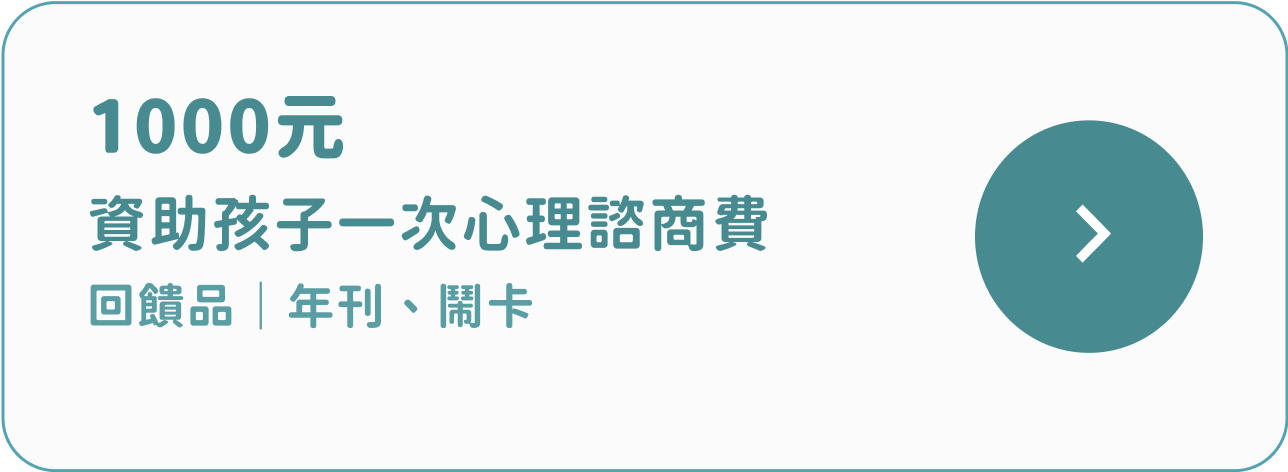
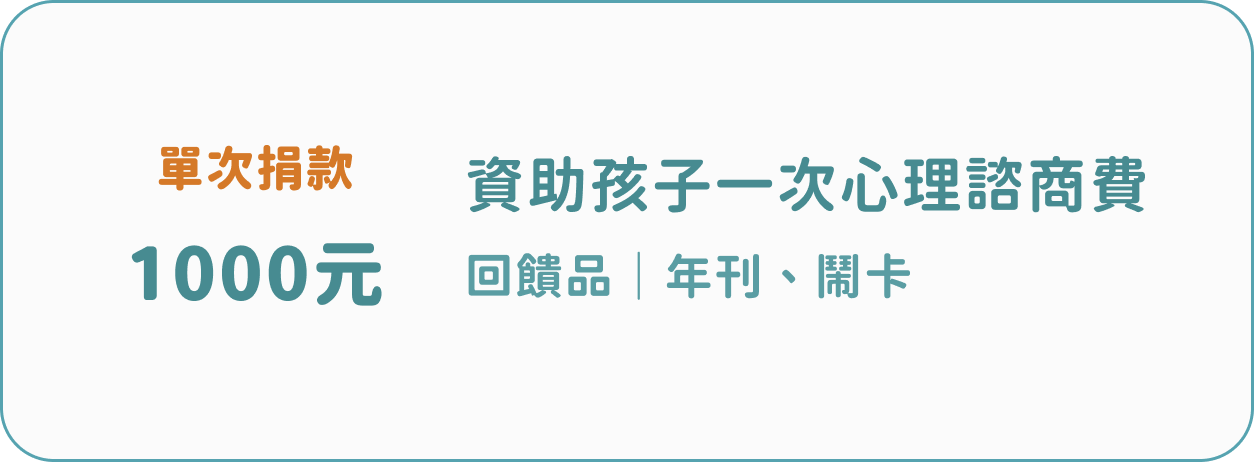
feat: donate button and action change to single donate button

diff --git a/src/components/E.vue b/src/components/E.vue
@@ -34,14 +34,14 @@
                   <!-- 1000元單次捐款卡片 -->
                   <div :class="[$style.offerParameters, $style.clickableCard]" @click="handleDonation(1000, 'A')">
                     <picture>
-                      <source srcset="/donateBtn/1000-m.png" media="(max-width: 1000px)" />
+                      <source srcset="/donateBtn/1000.png" media="(max-width: 1000px)" />
                       <img alt="1000元捐款" src="/donateBtn/1000.png" style="width:100%;height:auto;display:block;" />
                     </picture>
                   </div>
                   <!-- 3000元單次捐款卡片 -->
                   <div :class="[$style.offerParameters, $style.clickableCard]" @click="handleDonation(3000, 'A')">
                     <picture>
-                      <source srcset="/donateBtn/3000-m.png" media="(max-width: 1000px)" />
+                      <source srcset="/donateBtn/3000.png" media="(max-width: 1000px)" />
                       <img alt="3000元捐款" src="/donateBtn/3000.png" style="width:100%;height:auto;display:block;" />
                     </picture>
                   </div>
@@ -58,14 +58,14 @@
                   <!-- 600元定期捐款卡片 -->
                   <div :class="[$style.offerParameters, $style.clickableCard]" @click="handleDonation(600, 'B')">
                     <picture>
-                      <source srcset="/donateBtn/600-m.png" media="(max-width: 1000px)" />
+                      <source srcset="/donateBtn/600.png" media="(max-width: 1000px)" />
                       <img alt="600元定期捐款" src="/donateBtn/600.png" style="width:100%;height:auto;display:block;" />
                     </picture>
                   </div>
                   <!-- 1500元定期捐款卡片 -->
                   <div :class="[$style.offerParameters, $style.clickableCard]" @click="handleDonation(1500, 'B')">
                     <picture>
-                      <source srcset="/donateBtn/1500-m.png" media="(max-width: 1000px)" />
+                      <source srcset="/donateBtn/1500.png" media="(max-width: 1000px)" />
                       <img alt="1500元定期捐款" src="/donateBtn/1500.png" style="width:100%;height:auto;display:block;" />
                     </picture>
                   </div>
@@ -75,13 +75,15 @@
               <section :class="$style.blockRowWrapper">
                 <div :class="$style.blockRow">
                   <div :class="$style.internalOfferWrapper">
-                    <div :class="$style.freeDonateCard" @click="handleCustomDonation">
-                      <picture>
-                        <source srcset="/donateBtn/free-m.png" media="(max-width: 1000px)" />
-                        <img :class="$style.freeDonateImage" alt="自由捐款" src="/donateBtn/free.png" />
-                      </picture>
-                      <input v-model="customAmount" :class="$style.freeInput" type="number" placeholder="0" :min="100"
-                        @keyup.enter="handleCustomDonation" @click.stop @input="errorMessage = ''" />
+                    <div :class="$style.freeDonateCard">
+                      <a :class="$style.donateCta" href="https://lihi.cc/Iz8Pc" target="_blank"
+                        rel="noopener noreferrer">
+                        <span :class="$style.donateCtaText">立即捐款</span>
+                        <span :class="$style.donateCtaIconWrap">
+                          <img :class="$style.iconDefault" src="/donateBtn/btn-icon.png" alt="donate icon" />
+                          <img :class="$style.iconHover" src="/donateBtn/btn-icon-hover.png" alt="donate icon hover" />
+                        </span>
+                      </a>
                     </div>
                   </div>
                 </div>
@@ -167,6 +169,9 @@ const errorMessage = ref('')
 
 // 處理固定金額捐款
 const handleDonation = async (amount, kind) => {
+  return;
+  // 先關閉捐款功能
+
   if (isLoading.value) return
 
   try {
@@ -696,6 +701,87 @@ const handleCustomDonation = async () => {
   max-width: 535px;
 }
 
+/* CTA button for free donate */
+.donateCta {
+  width: 389px;
+  height: 132px;
+  display: flex;
+  align-items: center;
+  justify-content: center;
+  gap: 16px;
+  background-color: #E47F44;
+  color: #ffffff;
+  border: 1px solid #ffffff;
+  border-radius: 70px;
+  text-decoration: none;
+  font-size: 32px;
+  font-weight: 700;
+  font-family: var(--font-gensenrounded2-tw);
+  box-shadow: 0 8px 16px rgba(228, 127, 68, 0.35), 0 2px 4px rgba(0, 0, 0, 0.06);
+  transition: all 0.2s ease;
+  padding: 0 28px;
+}
+
+.donateCta:hover {
+  background-color: #ffffff;
+  color: #E47F44;
+  border-color: #E47F44;
+  box-shadow: 0 12px 22px rgba(228, 127, 68, 0.45), 0 3px 6px rgba(0, 0, 0, 0.08);
+}
+
+.donateCta:active {
+  transform: translateY(1px);
+  box-shadow: 0 4px 8px rgba(228, 127, 68, 0.30), 0 2px 4px rgba(0, 0, 0, 0.06) inset;
+}
+
+.donateCtaText {
+  line-height: 1;
+}
+
+.donateCtaIconWrap {
+  position: relative;
+  width: 76px;
+  height: 76px;
+  display: inline-block;
+  filter: drop-shadow(0 2px 4px rgba(0, 0, 0, 0.25));
+  transition: filter 0.2s ease;
+}
+
+.donateCta:hover .donateCtaIconWrap {
+  filter: drop-shadow(0 4px 8px rgba(0, 0, 0, 0.28));
+}
+
+.donateCta:active .donateCtaIconWrap {
+  filter: drop-shadow(0 1px 2px rgba(0, 0, 0, 0.22));
+}
+
+.donateCtaIconWrap img {
+  position: absolute;
+  top: 0;
+  left: 0;
+  width: 100%;
+  height: 100%;
+  object-fit: contain;
+  transition: opacity 0.15s ease;
+}
+
+/* Default icon visible; swap on hover */
+.iconDefault {
+  opacity: 1;
+}
+
+.iconHover {
+  opacity: 0;
+}
+
+.donateCta:hover .iconDefault {
+  opacity: 0;
+}
+
+.donateCta:hover .iconHover {
+  opacity: 1;
+}
+
 .freeDonateImage {
   width: 100%;
   height: auto;
@@ -729,6 +815,8 @@ const handleCustomDonation = async () => {
   font-size: var(--font-size-24);
   color: var(--color-cadetblue-300);
   font-family: var(--font-gensenrounded2-tw);
+
+  display: none;
 }
 
 @media screen and (max-width: 768px) {
@@ -1046,15 +1134,15 @@ const handleCustomDonation = async () => {
 
 /* 新增樣式 */
 .clickableCard img {
-  cursor: pointer;
+  /* cursor: pointer; */
   transition: all 0.3s ease;
   /* box-shadow: 0px 4px 4px rgba(0, 0, 0, 0.3); */
   /* border: 1px solid #56A3B0; */
-  border-radius: 16px;
+  /* border-radius: 18px; */
   transform-origin: center center;
 }
 
-.clickableCard:hover img {
+/* .clickableCard:hover img {
   transform: translateY(-2px);
   box-shadow: 0px 6px 8px rgba(0, 0, 0, 0.3);
   border-radius: 16px;
@@ -1062,7 +1150,7 @@ const handleCustomDonation = async () => {
 
 .clickableCard:active img {
   transform: translateY(0);
-}
+} */
 
 .customAmountInput {
   width: 120px;
@@ -1227,13 +1315,13 @@ const handleCustomDonation = async () => {
 }
 
 @media screen and (max-width: 1000px) {
-  .clickableCard img {
+  /* .clickableCard img {
     border-radius: 45px;
   }
 
   .clickableCard:hover img {
     border-radius: 45px;
-  }
+  } */
 
   .freeDonateImage {
     border-radius: 11px;
@@ -1245,6 +1333,19 @@ const handleCustomDonation = async () => {
 }
 
 @media screen and (max-width: 768px) {
+  .donateCta {
+    width: 193px;
+    height: 60px;
+    font-size: 20px;
+    gap: 10px;
+    padding: 0 16px;
+  }
+
+  .donateCtaIconWrap {
+    width: 28px;
+    height: 28px;
+  }
+
   .frameParent {
     padding: 0px 20px;
   }
